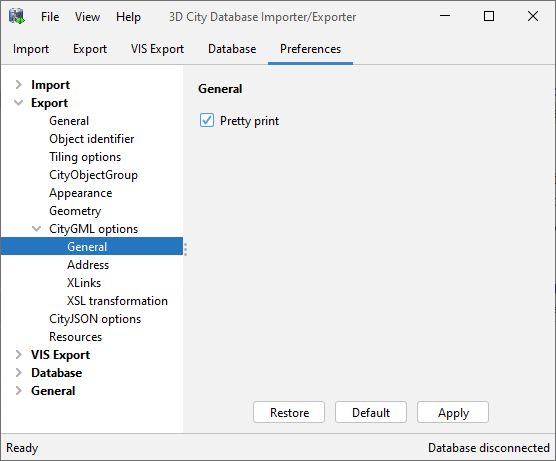
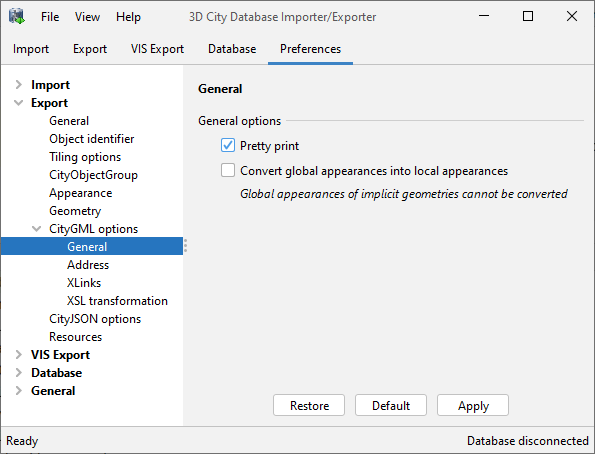
documented new CityGML export option to convert global appearances into local ones

diff --git a/source/impexp/export-preferences/citygml-general.rst b/source/impexp/export-preferences/citygml-general.rst
@@ -6,19 +6,33 @@ CityGML general
 .. note::
   These preference settings only apply to CityGML exports.
 
-The general CityGML export options allow you to enable *pretty printing*
-for the output file.
-
 .. figure:: /media/impexp_export_preferences_citygml_general_fig.png
    :name: impexp_export_preferences_citygml_general_fig
    :align: center
 
    Export preferences – General CityGML options.
 
-When enabled (default), indentation is used for the XML document
+The general CityGML export options allow you to enable *pretty printing*
+for the output file. When enabled (default), indentation is used for the XML document
 and every XML element is put on a new line. Without pretty printing,
 the entire data is put on a single long line. The file size will
 be considerably smaller without pretty printing, but the content is
 difficult to visually comprehend. Pretty printing should therefore
 be disabled in case the file is mainly used in machine-to-machine
 communication.
+
+If your database contains *global appearances*, you can choose to convert
+them into *local appearances* during export. Global appearances are stored as
+``<appearanceMember>`` properties of the ``<CityModel>`` root element in the output file.
+They typically affect more than one city object and, thus, are not stored
+as property of a single city object. When enabling this option, the export operation
+dissolves the global appearances and stores the appearance information as
+property of each city object to which it belongs (so-called *local appearance*).
+The CityGML specification recommends using local appearances whenever possible.
+This option does not change the contents in the database but only affects the
+structure of the output file(s).
+
+.. note::
+  Global appearances are the only way to assign textures or materials to
+  implicit geometries that are used by multiple city objects. Thus, global
+  appearances of implicit geometries are not dissolved when enabling this option.
